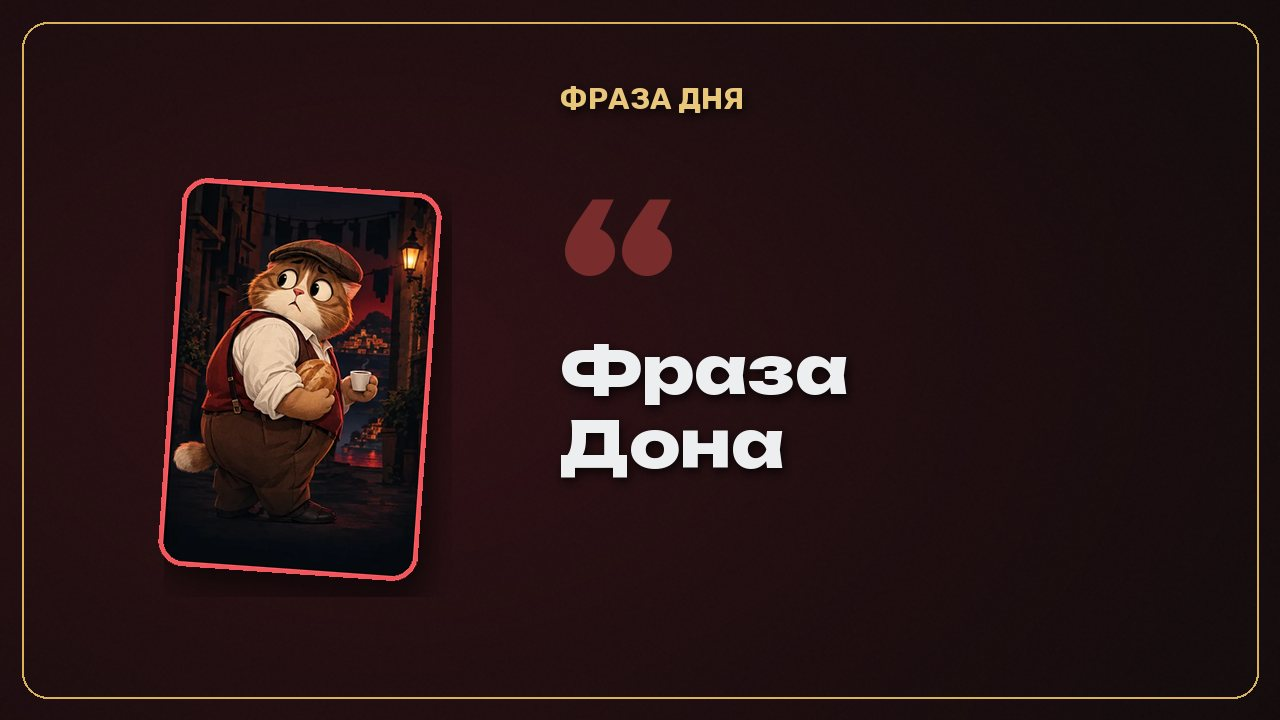
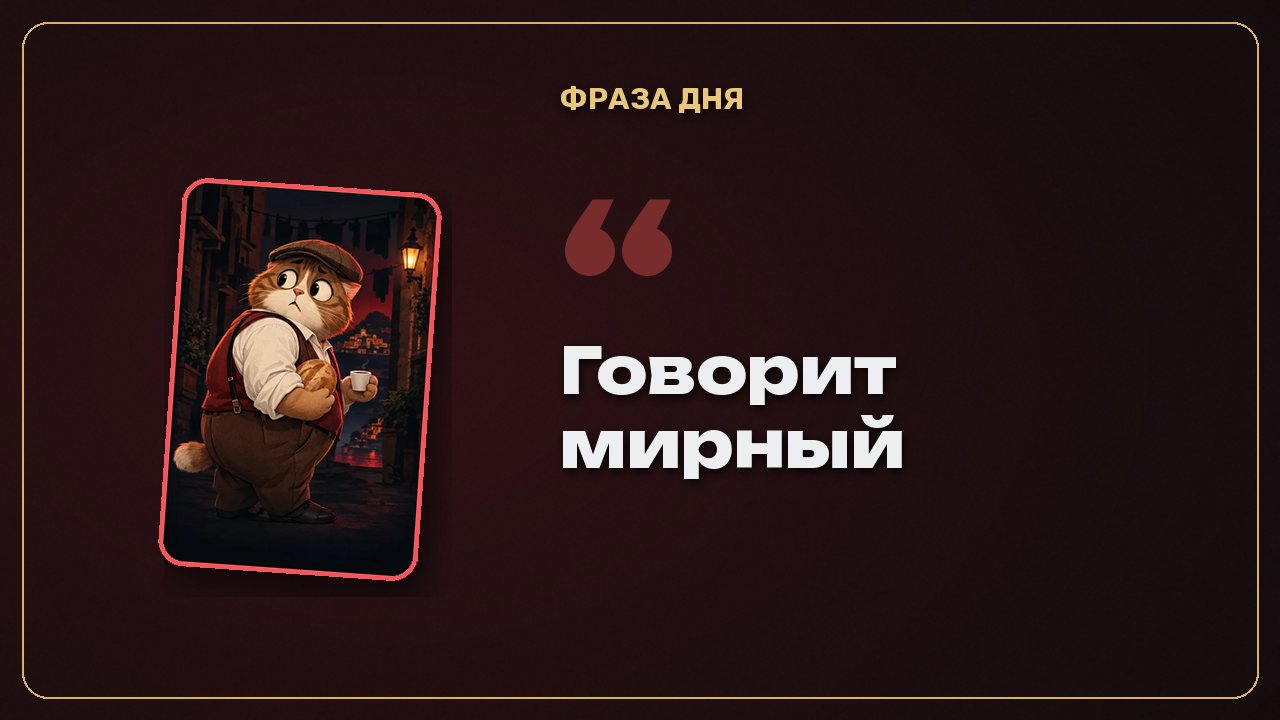
Бот: на картинке фразы написано, кто говорит
Раньше на всех цитатах было «Фраза Дона», даже под портретом шерифа.
Теперь «Говорит Дон», «Говорит Шериф», «Говорит мирный», «Сицилийская
поговорка», у баек, советов и протокола свои надписи. Имя говорящего
из подписи убрано, оно уже на картинке.

Claude-Session: https://claude.ai/code/session_01ABs1sjJznK3ewog8WpAz3R

Changed region(s): [[0.4375, 0.4583, 0.7188, 0.6722]]

diff --git a/server/bot/bot.ts b/server/bot/bot.ts
@@ -71,8 +71,8 @@ function jokeImage(j: Joke): string {
 }
 
 function jokeCaption(j: Joke): string {
-  // Заголовок («Фраза дня», «Байка из Палермо») уже на картинке
-  return j.kind === 'quote' ? `<i>«${h(j.text)}»</i>\n\n<b>${h(j.by ?? '')}</b>` : h(j.text);
+  // Кто говорит и что это за история, уже написано на картинке
+  return j.kind === 'quote' ? `<i>«${h(j.text)}»</i>` : h(j.text);
 }
 
 // ---------- Тексты Дона ----------

diff --git a/tools/bot-images.py b/tools/bot-images.py
@@ -415,12 +415,13 @@ def stats():
     save(im, 'stats')
 
 
-def fraza(name, who, title):
+def fraza(name, who, title, big):
+    """Карточка фразы: сверху жанр, крупно кто говорит (или что это за история), рядом его портрет."""
     im = background(center=(0.3, 0.5))
     place(im, card(who, 250, angle=-4), 300, 380)
     text(im, (560, 80), title.upper(), body(30, 700), fill=GOLD_SOFT)
     text(im, (560, 150), '“', display(200), fill=(120, 44, 44), shadow=False)
-    text(im, (560, 330), 'Фраза\nДона' if title == 'Фраза дня' else title.replace(' ', '\n', 1), display(64), spacing=10)
+    text(im, (560, 330), big, display(64), spacing=10)
     frame(im)
     save(im, f'fraza-{name}')
 
@@ -441,8 +442,16 @@ if __name__ == '__main__':
     save(gathering(0, 'cancelled'), 'gather-cancelled')
     save(gathering(10, 'done'), 'gather-done')
     reminder('60'); reminder('10'); table_open(); stats()
-    for name, who, title in [('don', 'don', 'Фраза дня'), ('mafia', 'mafia', 'Фраза дня'), ('sheriff', 'sheriff', 'Фраза дня'),
-                             ('civilian', 'civilian', 'Фраза дня'), ('host', 'civilian-priest', 'Фраза дня'), ('saying', 'civilian-fisher', 'Фраза дня'),
-                             ('story', 'civilian-accordion', 'Байка из Палермо'), ('tip', 'don', 'Совет семьи'), ('log', 'sheriff', 'Из протокола')]:
-        fraza(name, who, title)
+    for name, who, title, big in [
+        ('don', 'don', 'Фраза дня', 'Говорит\nДон'),
+        ('mafia', 'mafia', 'Фраза дня', 'Говорит\nМафия'),
+        ('sheriff', 'sheriff', 'Фраза дня', 'Говорит\nШериф'),
+        ('civilian', 'civilian', 'Фраза дня', 'Говорит\nмирный'),
+        ('host', 'civilian-priest', 'Фраза дня', 'Говорит\nведущий'),
+        ('saying', 'civilian-fisher', 'Фраза дня', 'Сицилийская\nпоговорка'),
+        ('story', 'civilian-accordion', 'Байка', 'Из жизни\nПалермо'),
+        ('tip', 'don', 'Совет семьи', 'Дон\nсоветует'),
+        ('log', 'sheriff', 'Из протокола', 'Записано\nв протокол'),
+    ]:
+        fraza(name, who, title, big)
     print('готово:', len(os.listdir(OUT)), 'картинок')
